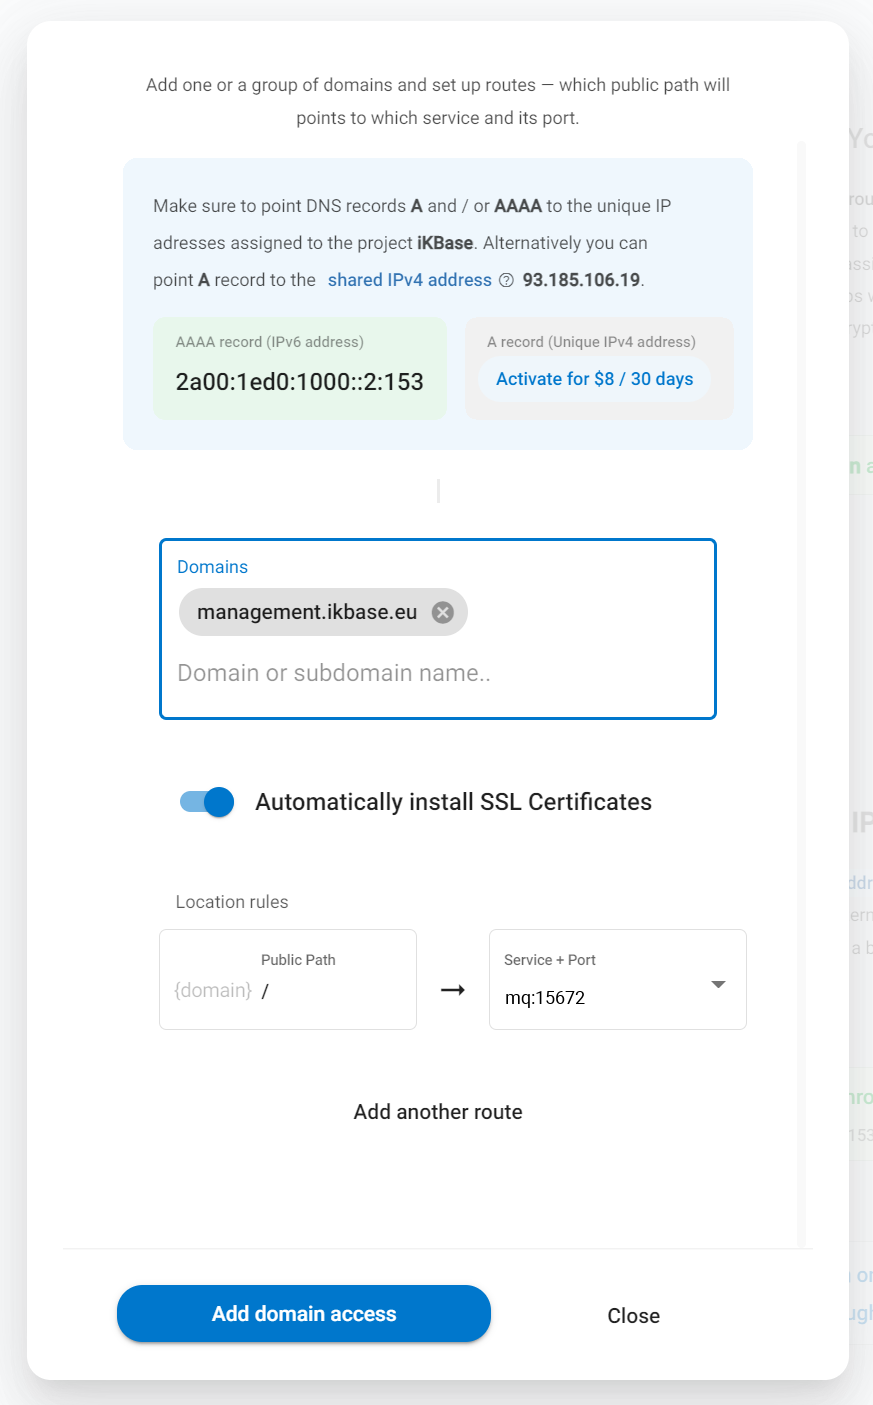
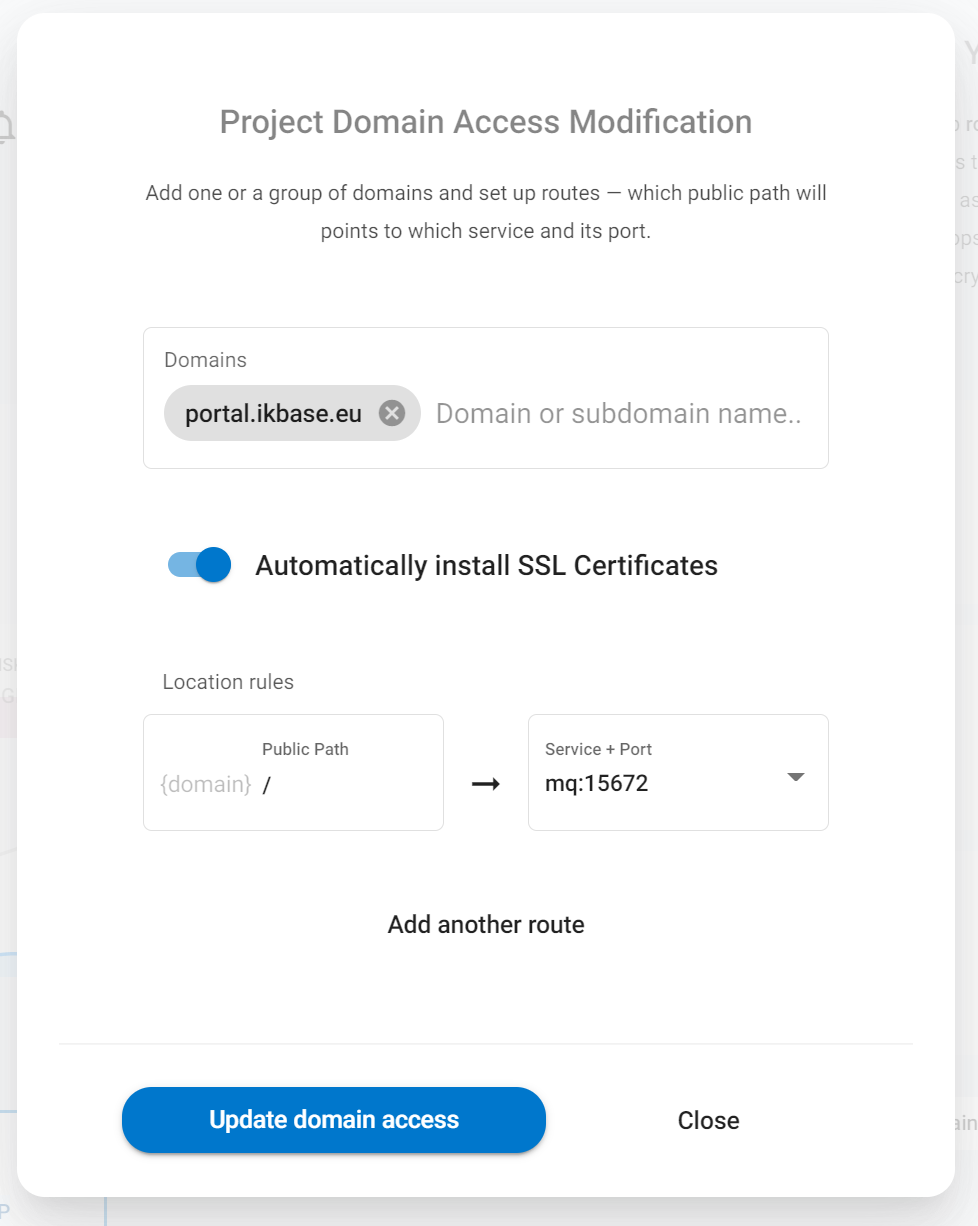
wip(RabbitMQ): HA updates

diff --git a/src/documentation/services/message-brokers/rabbitmq.md b/src/documentation/services/message-brokers/rabbitmq.md
@@ -46,6 +46,8 @@ Choose a short and descriptive URL-friendly name, for example, **mq**. The follo
 
 The ports will automatically be set to the values of **==1883==** (the `mqtt` protocol), **==5672==** (the `amqp` protocol), **==61613==** (the `stomp` protocol), **==15672==** (web management portal),  **==15674==** (WebSocket for the `stomp` protocol), **==15675==** (WebSocket for the `mqtt` protocol) and can't be changed.
 
+![RabbitMQ Service](./images/RabbitMQ-Internal-Ports.png "Message Broker Internal Ports")
+
 <!-- markdownlint-disable DOCSMD004 -->
 ::: warning Hostname is also used as the default admin user name
 The chosen **hostname** is automatically used to create an admin user account with all privileges and grant options for accessing the message broker. You can change it later if you prefer. The standard default user `guest` is removed during the installation phase of the service.
@@ -62,15 +64,39 @@ The RabbitMQ service is configured to **allow access** for native `mqtt`, `amqp`
 
 ##### Selective access to the internal ports
 
-You can use the Zerops HTTP routing feature for browser access to the RabbitMQ [web management portal](https://www.rabbitmq.com/management.html) (port 15672) or transmit messages using WebSockets and the RabbitMQ [STOMP](https://www.rabbitmq.com/web-stomp.html) (port 15674) and [MQTT](https://www.rabbitmq.com/web-mqtt.html) (port 15675) plugins. This access is disabled by default from the outside Internet, but if necessary you can enable it using the RabbitMQ **Internal ports** section:
+You can use the Zerops [subdomain](/documentation/routing/zerops-subdomain.html) feature to access the RabbitMQ [web management portal](https://www.rabbitmq.com/management.html) (port 15672).
 
-![RabbitMQ Service](./images/RabbitMQ-Internal-Ports.png "Message Broker Internal Ports")
+![RabbitMQ Service](./images/RabbitMQ-Subdomain_Web_Management_Portal.png "Subdomain to Web Management Portal")
 
-In turn, Zerops uses this setting to optimize its internal logic to only offer enabled options and SSL certificates in useful places. These ports are used to set up public Internet access as described in the following section: [From the external Internet environment](#from-the-external-internet-environment).
+<!-- markdownlint-disable DOCSMD004 -->
+::: tip Web management portal access in HA mode
+If you enable the Zerops subdomain to access the portal from the Internet, you will see the URL list of the RabbitMQ cluster nodes first:
 
-The following image shows the case of the `management.ikbase.eu` public domain is pointed to the web management portal of the RabbitMQ service on the host `mq:15672`. The same could be done for WebSockets STOMP `wsstomp.ikbase.eu` -> `mq:15674` or MQTT `wsmqtt.ikbase.eu` -> `mq:15675` plugins.
+* RabbitMQ GUI Container 1 `https://<hostname>-<randomId>-<port>.app.zerops.io/rabbit1`
+* RabbitMQ GUI Container 2 `https://<hostname>-<randomId>-<port>.app.zerops.io/rabbit2`
+* RabbitMQ GUI Container 3 `https://<hostname>-<randomId>-<port>.app.zerops.io/rabbit3`
+
+You can click on any of these three URLs to access the web management portal on the corresponding RabbitMQ cluster node because all nodes are equivalent. The logic is precisely the same even when you access the portal through a mapped public domain.
+:::
+<!-- markdownlint-enable DOCSMD004 -->
+
+The Zerops HTTP routing feature allows you also to map public domains or subdomains to the RabbitMQ [web management portal](https://www.rabbitmq.com/management.html) (port 15672), or WebSockets [STOMP](https://www.rabbitmq.com/web-stomp.html) (port 15674) and [MQTT](https://www.rabbitmq.com/web-mqtt.html) (port 15675) plugins. It enables access from public Internet through web browsers, and even transmit messages using STOMP and MQTT protocols.
+
+![RabbitMQ Service](./images/RabbitMQ-Public_Domains_Mapping.png "Public Domains Mapping")
+
+Zerops uses this possibilities to offer only appropriate options and SSL certificates in useful places. These ports are used to set up public Internet access as described in the following section: [From the external Internet environment](#from-the-external-internet-environment).
+
+The following image shows the case of the `portal.ikbase.eu` public subdomain is pointed to the web management portal of the RabbitMQ service on the host `mq:15672`. The same can be done for WebSockets STOMP `stomp.ikbase.eu` -> `mq:15674` or MQTT `mqtt.ikbase.eu` -> `mq:15675` plugins.
 
 ![Public Routing](./images/RabbitMQ-Public-Access-Internal-Ports.png "Public Routing Overview")
+
+<!-- markdownlint-disable DOCSMD004 -->
+::: warning Mapping to STOMP and MQTT WebSockets plugins
+Both RabbitMQ STOMP and MQTT plugins are located on the `/ws` path. That's why you should use the same `/ws` public path to map the public subdomains. It's also important to remember that the described Zerops mapping transforms the URL that a JavaScript client uses to `wss://stomp.ikbase.eu/ws` or `wss://mqtt.ikbase.eu/ws`. It means that the `443` port is used, not the `15674` or `15675` ports from the public Internet.
+
+In the case of HA mode, WebSockets requests are transparently routed to the individual RabbitMQ nodes through the load balancers, which are part of the RabbitMQ cluster. Take a look at the [RabbitMQ Service in HA Mode, a deep-dive view](/documentation/overview/how-zerops-works-inside/rabbitmq-cluster-internally.html).
+:::
+<!-- markdownlint-enable DOCSMD004 -->
 
 #### HA / non-HA message broker mode
 
@@ -104,6 +130,8 @@ The messaging service is not configured to support direct access using SSL/TLS o
 Other services can access the broker using its **hostname** and **port** environment variables (the primary native `amqp` communication protocol is applied), as they are part of the same private project network (for example, `amqp://mq:5672`). It’s highly recommended that you utilize the **==connectionString==** environment variable that Zerops creates automatically for the message broker in non-HA mode. See also the explanation of environment variables specifics for HA mode below. More information related to **connectionString** can be found in the dedicated [environment variables](/documentation/environment-variables/overview.html#referencing-environment-variables) section. See also a list of all automatically generated [environment variables](/documentation/environment-variables/helper-variables.html#rabbitmq) for the RabbitMQ service.
 
 If you need to use the `mqtt` or `stomp` protocols, use the **==connectionStringMqtt==** or **==connectionStringStomp==** environment variables (**portMqtt** and **portStomp** ones also exist).
+
+![RabbitMQ Service](./images/RabbitMQ-Message-Broker-Environment-Variables.png "Message Broker Environment Variables")
 
 For more flexibility with future potential hostname changes, it's always recommended to use them indirectly via [custom environment variables](/knowledge-base/best-practices/how-to-use-environment-variables-efficiently.html) (referencing implicit Zerops environment [variables](/documentation/environment-variables/helper-variables.html#rabbitmq)) in each project service separately. This allows you to eliminate all direct dependencies in the application code, which in turn provides simplification and increased flexibility. Another reason not to hard-code the values inside your applications is that it can be dangerous because it is easy to commit them (like your credentials) into a repository, potentially exposing them to more people than intended.
 
@@ -161,8 +189,8 @@ If you log in as the `zps` user and make inappropriate changes to the system con
 
 ## Default hardware configuration and autoscaling
 
-* Each RabbitMQ container (1 in non-HA, 3 in HA) starts with the technological minimum of vCPUs (allowing a meaningful initial start and response time), 0.5 GB RAM, and 5 GB of disk space.
-* Zerops will only automatically scale the database [vertically](/documentation/automatic-scaling/how-automatic-scaling-works.html#vertical-scaling) (both in non-HA and HA mode).
+* Each RabbitMQ container (1 in non-HA, 3 in HA) starts with the technological minimum of vCPUs (allowing a meaningful initial start and response time), 0.25 GB RAM, and 1 GB of disk space.
+* Zerops will only automatically scale the resources [vertically](/documentation/automatic-scaling/how-automatic-scaling-works.html#vertical-scaling) (both in non-HA and HA mode).
 * The [horizontal autoscaling](/documentation/automatic-scaling/how-automatic-scaling-works.html#horizontal-scaling) in HA mode is not applied because of optimal performance.
 
 ## Backup and Restore

diff --git a/src/documentation/services/storage/shared.md b/src/documentation/services/storage/shared.md
@@ -94,7 +94,7 @@ Zerops is able to create shared storage services found in the [import YAML scrip
 ## Default hardware configuration and autoscaling
 
 * In HA mode, the Shared storage service is instantiated always with **3 containers**. This means that any files are always replicated through 3 different physical places. In non-HA mode, only **1 container** is used.
-* Each of them runs in a different container located on a **different physical machine** and starts with 1 vCPU, 0.25 GB RAM, and 5 GB of disk space.
+* Each of them runs in a different container located on a **different physical machine** and starts with 1 vCPU, 0.25 GB RAM, and 1 GB of disk space.
 * Zerops will automatically scale the container resources only **vertically** (up to 20 vCPU, 32 GB RAM, 100 GB disk space).
 * You can also manually adjust those resources' custom upper limit manually in the Zerops GUI.
 

diff --git a/src/documentation/export-import/project-service-export-import.md b/src/documentation/export-import/project-service-export-import.md
@@ -439,10 +439,10 @@ Actual service DISK lower and upper limits:
 
 |Service DISK in GB |lower limit |upper limit |step |
 |:------------------|:-----------|:-----------|:----|
-|PostgreSQL         |5           |100         |0.5  |
-|MariaDB            |5           |100         |0.5  |
-|KeyDB              |5           |100         |0.5  |
-|RabbitMQ           |5           |100         |0.5  |
+|PostgreSQL         |1           |100         |0.5  |
+|MariaDB            |1           |100         |0.5  |
+|KeyDB              |1           |100         |0.5  |
+|RabbitMQ           |1           |100         |0.5  |
 |Shared storage     |1           |100         |0.5  |
 |Node.js            |1           |100         |0.5  |
 |Golang             |1           |100         |0.5  |

diff --git a/src/documentation/services/databases/mariadb.md b/src/documentation/services/databases/mariadb.md
@@ -146,7 +146,7 @@ For system maintenance reasons, the `zps` user is also automatically created wit
 
 ## Default hardware configuration and autoscaling
 
-* Each MariaDB container (1 in non-HA, 3 in HA) starts with 1 vCPU, 1 GB RAM, and 5 GB of disk space.
+* Each MariaDB container (1 in non-HA, 3 in HA) starts with 1 vCPU, 1 GB RAM, and 1 GB of disk space.
 * Zerops will only automatically scale the database [vertically](/documentation/automatic-scaling/how-automatic-scaling-works.html#vertical-scaling) (both in non-HA and HA mode).
 * The [horizontal autoscaling](/documentation/automatic-scaling/how-automatic-scaling-works.html#horizontal-scaling) in HA mode is not applied because of optimal performance.
 

diff --git a/src/documentation/services/databases/postgresql.md b/src/documentation/services/databases/postgresql.md
@@ -155,7 +155,7 @@ A new database with the name based on the selected **hostname** is created durin
 
 ## Default hardware configuration and autoscaling
 
-* Each PostgreSQL container (1 in non-HA, 3 in HA) starts with 1 vCPU, 1 GB RAM, and 5 GB of disk space.
+* Each PostgreSQL container (1 in non-HA, 3 in HA) starts with 1 vCPU, 1 GB RAM, and 1 GB of disk space.
 * Zerops will automatically scale the HW resources both [vertically](/documentation/automatic-scaling/how-automatic-scaling-works.html#vertical-scaling) (in non-HA and HA mode) and [horizontally](/documentation/automatic-scaling/how-automatic-scaling-works.html#horizontal-scaling) (in HA mode only).
 
 ## How to backup / restore database data

diff --git a/src/documentation/services/databases/keydb.md b/src/documentation/services/databases/keydb.md
@@ -110,7 +110,7 @@ To understand this better, take a look at the following section: [With external 
 
 ## Default hardware configuration and autoscaling
 
-* Each KeyDB container (1 in non-HA, 2 in HA) starts with 1 vCPU, 0.25 GB RAM, and 5 GB of disk space.
+* Each KeyDB container (1 in non-HA, 2 in HA) starts with 1 vCPU, 0.25 GB RAM, and 1 GB of disk space.
 * Zerops will automatically scale the HW resources both in non-HA and HA mode only [vertically](/documentation/automatic-scaling/how-automatic-scaling-works.html#vertical-scaling).
 
 ## Database data persistence

diff --git a/src/documentation/services/runtimes/php.md b/src/documentation/services/runtimes/php.md
@@ -225,7 +225,7 @@ To understand this better, take a look at the following section: [With external 
 
 ## Default hardware configuration and autoscaling
 
-* Each PHP container starts with 1 vCPU, 0.25 GB RAM, and 5 GB of disk space.
+* Each PHP container starts with 1 vCPU, 0.25 GB RAM, and 1 GB of disk space.
 * Zerops will automatically scale the resources vertically (up to 20 vCPU, 32 GB RAM, 100 GB DISK) and horizontally (up to 4 containers).
 
 ## Pre-installed PHP Composer

diff --git a/src/documentation/services/runtimes/nodejs.md b/src/documentation/services/runtimes/nodejs.md
@@ -188,7 +188,7 @@ To understand this better, take a look at the following section: [With external 
 
 ## Default hardware configuration and autoscaling
 
-* Each Node.js container starts with 1 vCPU, 0.25 GB RAM, and 5 GB of disk space.
+* Each Node.js container starts with 1 vCPU, 0.25 GB RAM, and 1 GB of disk space.
 * Zerops will automatically scale the resources vertically (up to 20 vCPU, 32 GB RAM, 100 GB DISK) and horizontally (up to 4 containers).
 
 ## Logging

diff --git a/src/documentation/services/runtimes/golang.md b/src/documentation/services/runtimes/golang.md
@@ -175,7 +175,7 @@ To understand this better, take a look at the following section: [With external 
 
 ## Default hardware configuration and autoscaling
 
-* Each Golang container starts with 1 vCPU, 0.25 GB RAM, and 5 GB of disk space.
+* Each Golang container starts with 1 vCPU, 0.25 GB RAM, and 1 GB of disk space.
 * Zerops will automatically scale the resources vertically (up to 20 vCPU, 32 GB RAM, 100 GB DISK) and horizontally (up to 4 containers).
 
 ## Logging

diff --git a/src/documentation/services/static-servers/nginx.md b/src/documentation/services/static-servers/nginx.md
@@ -198,7 +198,7 @@ To understand this better, take a look at the following section: [With external 
 
 ## Default hardware configuration and autoscaling
 
-* Each Nginx container starts with 1 vCPU, 0.25 GB RAM, and 5 GB of disk space.
+* Each Nginx container starts with 1 vCPU, 0.25 GB RAM, and 1 GB of disk space.
 * Zerops will automatically scale the resources vertically (up to 20 vCPU, 32 GB RAM, 100 GB DISK) and horizontally (up to 4 containers).
 
 ## Logging
